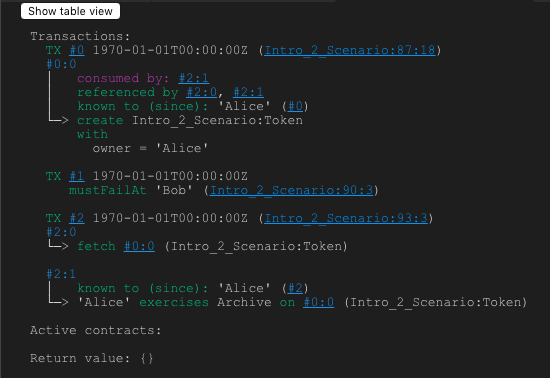
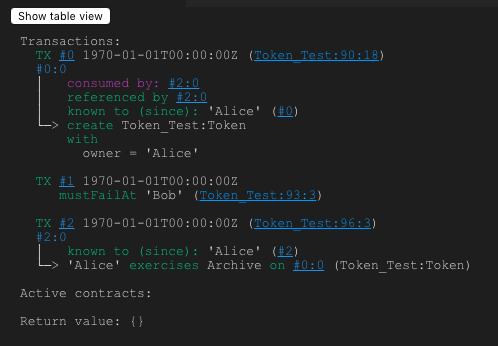
Update transaction graphs to remove superfluous fetch nodes

Changed region(s): [[0.0, 0.0, 0.9639, 0.8382], [0.0301, 0.8382, 0.3012, 0.896], [0.0301, 0.9249, 0.3012, 0.9827]]

diff --git a/docs/source/daml/intro/4_Transformations.rst b/docs/source/daml/intro/4_Transformations.rst
@@ -85,51 +85,45 @@ With that new background, it's time to take a look at the transaction view of th
 .. code-block:: none
 
   Transactions:
-    TX #0 1970-01-01T00:00:00Z (Contact:40:17)
+    TX #0 1970-01-01T00:00:00Z (Contact:43:17)
     #0:0
-    │   consumed by: #2:1
-    │   referenced by #2:0, #2:1
+    │   consumed by: #2:0
+    │   referenced by #2:0
     │   known to (since): 'Alice' (#0), 'Bob' (#0)
     └─> create Contact:Contact
         with
           owner = 'Alice'; party = 'Bob'; address = "1 Bobstreet"; telephone = "012 345 6789"
 
     TX #1 1970-01-01T00:00:00Z
-      mustFailAt 'Bob' (Contact:49:3)
+      mustFailAt 'Bob' (Contact:52:3)
 
-    TX #2 1970-01-01T00:00:00Z (Contact:53:22)
+    TX #2 1970-01-01T00:00:00Z (Contact:56:22)
     #2:0
-    └─> fetch #0:0 (Contact:Contact)
-
-    #2:1
     │   known to (since): 'Alice' (#2), 'Bob' (#2)
     └─> 'Alice' exercises UpdateTelephone on #0:0 (Contact:Contact)
                 with
                   newTelephone = "098 7654 321"
         children:
-        #2:2
-        │   consumed by: #4:1
-        │   referenced by #3:0, #4:0, #4:1
+        #2:1
+        │   consumed by: #4:0
+        │   referenced by #3:0, #4:0
         │   known to (since): 'Alice' (#2), 'Bob' (#2)
         └─> create Contact:Contact
             with
               owner = 'Alice'; party = 'Bob'; address = "1 Bobstreet"; telephone = "098 7654 321"
 
-    TX #3 1970-01-01T00:00:00Z (Contact:57:3)
+    TX #3 1970-01-01T00:00:00Z (Contact:60:3)
     #3:0
-    └─> fetch #2:2 (Contact:Contact)
+    └─> fetch #2:1 (Contact:Contact)
 
-    TX #4 1970-01-01T00:00:00Z (Contact:63:22)
+    TX #4 1970-01-01T00:00:00Z (Contact:66:22)
     #4:0
-    └─> fetch #2:2 (Contact:Contact)
-
-    #4:1
     │   known to (since): 'Alice' (#4), 'Bob' (#4)
-    └─> 'Bob' exercises UpdateAddress on #2:2 (Contact:Contact)
+    └─> 'Bob' exercises UpdateAddress on #2:1 (Contact:Contact)
               with
                 newAddress = "1-10 Bobstreet"
         children:
-        #4:2
+        #4:1
         │   referenced by #5:0
         │   known to (since): 'Alice' (#4), 'Bob' (#4)
         └─> create Contact:Contact
@@ -139,17 +133,15 @@ With that new background, it's time to take a look at the transaction view of th
               address = "1-10 Bobstreet";
               telephone = "098 7654 321"
 
-    TX #5 1970-01-01T00:00:00Z (Contact:67:3)
+    TX #5 1970-01-01T00:00:00Z (Contact:70:3)
     #5:0
-    └─> fetch #4:2 (Contact:Contact)
+    └─> fetch #4:1 (Contact:Contact)
 
-  Active contracts:  #4:2
+  Active contracts:  #4:1
 
   Return value: {}
 
 There are four commits corresponding to the four ``submit`` statements in the scenario. Within each commit, we see that it's actually actions that have ids of the form ``#commit_number:action_number``. Contract ids are just the id of their ``create`` action. Commits ``#2`` and ``#4`` contain ``exercise`` actions with ids ``#2:1`` and ``#4:1``. The ``create`` actions of the updated, ``Contact`` contracts,  ``#2:2`` and ``#4:2``, are indented and found below a line reading ``children:``, making the tree structure apparent.
-
-There are a few extra ``fetch`` nodes scattered around. These are inserted as activeness checks. As they have no effect, it's safe not to worry about them.
 
 .. _simple_iou:
 

diff --git a/docs/source/daml/intro/6_Parties.rst b/docs/source/daml/intro/6_Parties.rst
@@ -150,32 +150,32 @@ The graph of this transaction can be seen in the transaction view of the IDE:
 
 .. code-block:: none
 
-  TX #12 1970-01-01T00:00:00Z (daml-intro-6/Parties:244:3)
+  TX #12 1970-01-01T00:00:00Z (Parties:269:3)
   #12:0
   │   known to (since): 'Bob' (#12), 'Charlie' (#12)
-  └─> 'Bob' exercises Send_Iou on #10:0 (daml-intro-6/Parties:IouSender)
+  └─> 'Bob' exercises Send_Iou on #10:0 (Parties:IouSender)
             with
               iouCid = #11:3
       children:
       #12:1
       │   known to (since): 'Bob' (#12), 'Charlie' (#12)
-      └─> fetch #11:3 (daml-intro-6/Parties:Iou)
+      └─> fetch #11:3 (Parties:Iou)
 
       #12:2
       │   known to (since): 'Bob' (#12), 'Alice' (#12), 'Charlie' (#12)
-      └─> 'Bob', 'Charlie' exercises Mutual_Transfer on #11:3 (daml-intro-6/Parties:Iou)
+      └─> 'Bob', 'Charlie' exercises Mutual_Transfer on #11:3 (Parties:Iou)
                            with
                              newOwner = 'Charlie'
           children:
           #12:3
           │   known to (since): 'Charlie' (#12), 'Alice' (#12), 'Bob' (#12)
-          └─> create daml-intro-6/Parties:Iou
+          └─> create Parties:Iou
               with
                 issuer = 'Alice';
                 owner = 'Charlie';
                 cash =
-                  (daml-intro-6/Parties:Cash with
-                     currency = "USD"; amount = 100.0
+                  (Parties:Cash with
+                     currency = "USD"; amount = 100.0)
 
 Note that authority is not automatically transferred transitively.
 

diff --git a/docs/source/daml/intro/3_Data.rst b/docs/source/daml/intro/3_Data.rst
@@ -88,7 +88,6 @@ Tuples
 
 A common task is to group values in a generic way. Take, for example, a key-value pair with a ``Text`` key and an ``Int`` value. In DAML, you could use a two-tuple of type ``(Text, Int)`` to do so. If you wanted to express a coordinate in three dimensions, you could group three ``Decimal`` values using a three-tuple ``(Decimal, Decimal, Decimal)``.
 
-
 .. literalinclude:: daml/daml-intro-3/Tuple.daml
   :language: daml
   :start-after: -- TUPLE_TEST_BEGIN
@@ -216,7 +215,7 @@ You have already met the type ``ContractId a``, which references a contract of t
   :start-after: -- ID_REF_TEST_BEGIN
   :end-before: -- ID_REF_TEST_END
 
-The scenario above use the ``fetch`` function, which retrieves the arguments of an active contract using its contract ID.
+The scenario above uses the ``fetch`` function, which retrieves the arguments of an active contract using its contract ID.
 
 Note that, for the first time, the party submitting a transaction is doing more than one thing as part of that transaction. To create ``new_account``, the accountant fetches the arguments of the old account, archives the old account and creates a new account, all in one transaction. More on building transactions in :doc:`7_Composing`.
 

diff --git a/docs/source/daml/intro/7_Composing.rst b/docs/source/daml/intro/7_Composing.rst
@@ -111,7 +111,7 @@ The resulting transaction, with its two nested levels of consequences, can be se
 
 .. code-block:: none
 
-  TX #15 1970-01-01T00:00:00Z (Test.Intro.Asset.Trade:75:23)
+  TX #15 1970-01-01T00:00:00Z (Test.Intro.Asset.Trade:77:23)
   #15:0
   │   known to (since): 'Alice' (#15), 'Bob' (#15)
   └─> 'Bob' exercises Trade_Settle on #13:1 (Intro.Asset.Trade:Trade)
